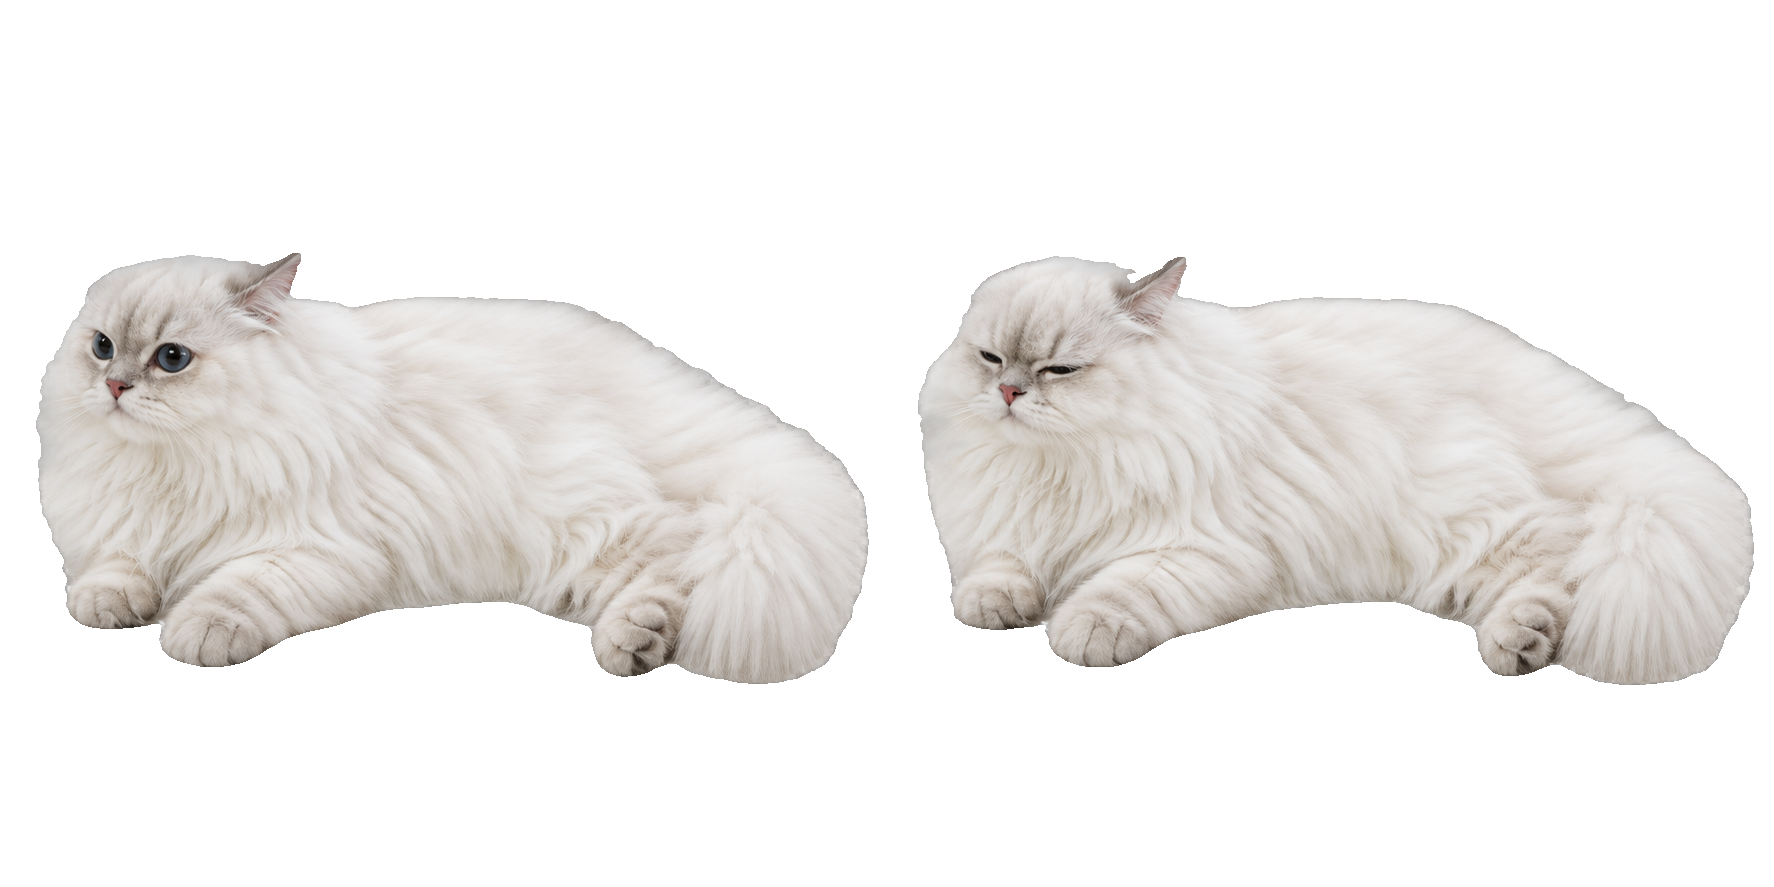
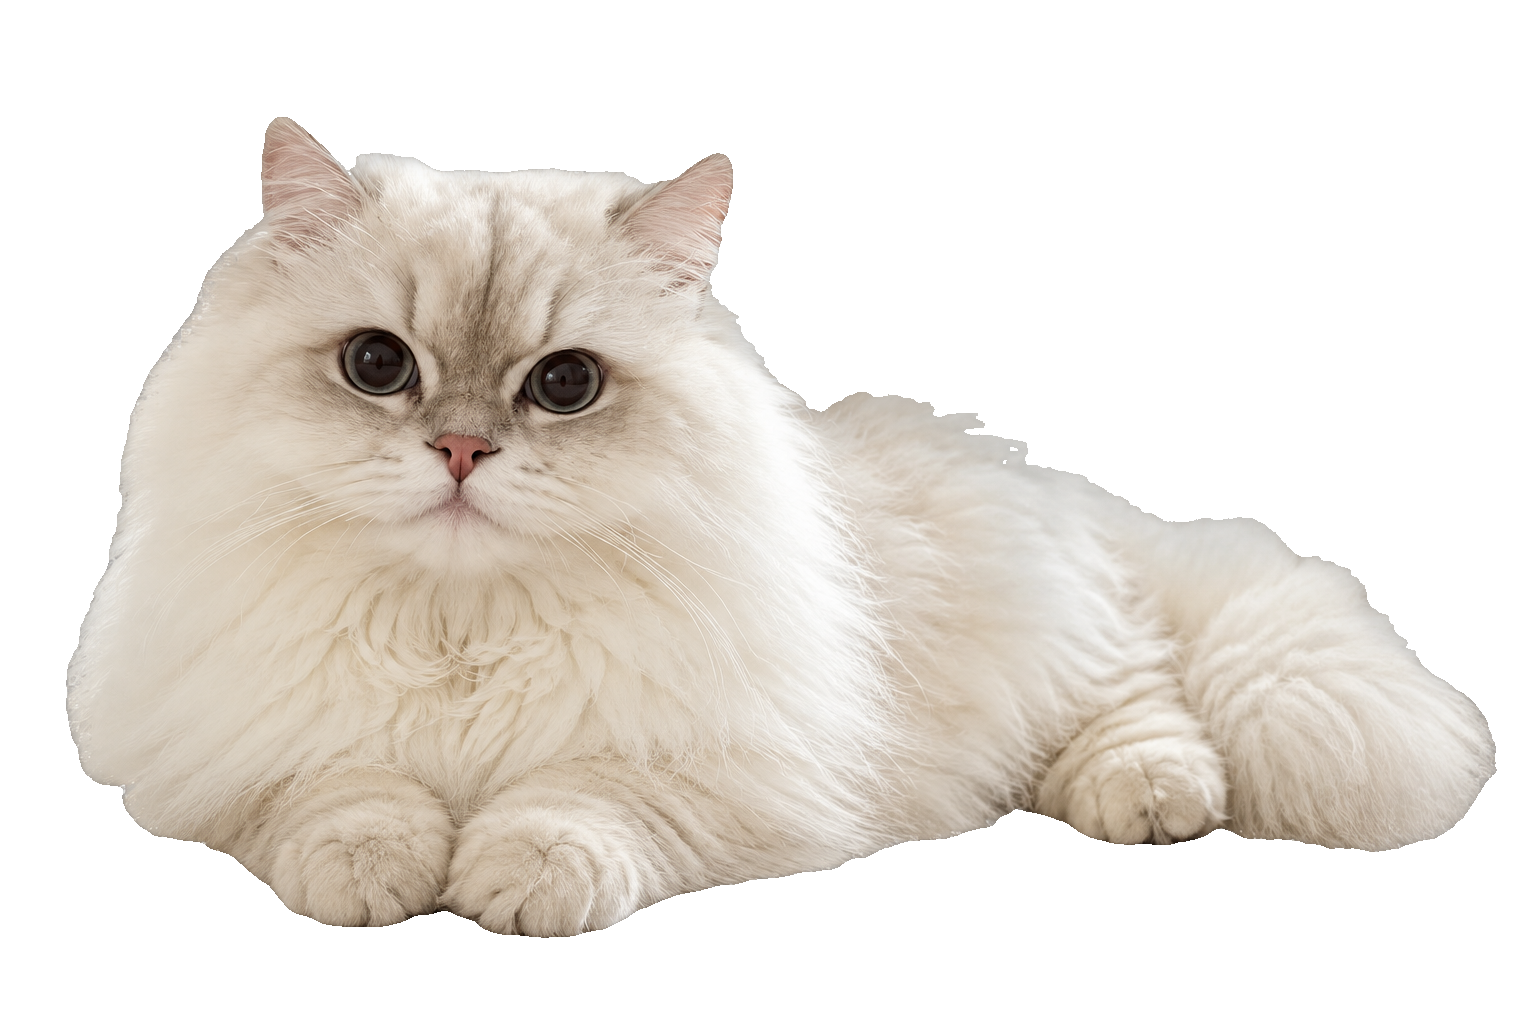
fix: add Mochi blink and walk sprite frames

diff --git a/native/macos/Mochi.swift b/native/macos/Mochi.swift
@@ -63,11 +63,13 @@ final class MochiPanel: NSPanel {
 final class PetHostView: NSView {
     var quiet = false
     private let rest = NSImage(contentsOfFile: Bundle.main.path(forResource: "mochi-rest", ofType: "png", inDirectory: "assets/cats")!)!
+    private let blink = NSImage(contentsOfFile: Bundle.main.path(forResource: "mochi-blink", ofType: "png", inDirectory: "assets/cats")!)!
     private let walk = NSImage(contentsOfFile: Bundle.main.path(forResource: "mochi-walk", ofType: "png", inDirectory: "assets/cats")!)!
     private var walking = false
     private var blinkUntil = Date.distantPast
     private var nextBlink = Date().addingTimeInterval(5)
     private var nextWalk = Date().addingTimeInterval(45)
+    private var walkFrame = 0
 
     override init(frame frameRect: NSRect) {
         super.init(frame: frameRect)
@@ -79,6 +81,7 @@ final class PetHostView: NSView {
         let now = Date()
         if !quiet && !walking && now >= nextWalk {
             walking = true
+            walkFrame = 0
             nextWalk = now.addingTimeInterval(TimeInterval(Int.random(in: 40...80)))
             DispatchQueue.main.asyncAfter(deadline: .now() + 1.4) { [weak self] in self?.walking = false }
         }
@@ -92,10 +95,12 @@ final class PetHostView: NSView {
     override func draw(_ dirtyRect: NSRect) {
         NSColor.clear.setFill(); dirtyRect.fill()
         if walking {
-            walk.draw(in: NSRect(x: 10, y: 20, width: 180, height: 94), from: NSRect(x: 70, y: 140, width: 1460, height: 760), operation: .sourceOver, fraction: 1)
+            walkFrame = (walkFrame + 1) % 4
+            let frameWidth = walk.size.width / 4
+            walk.draw(in: NSRect(x: 17, y: 4, width: 165, height: 131), from: NSRect(x: CGFloat(walkFrame) * frameWidth, y: 120, width: frameWidth, height: 430), operation: .sourceOver, fraction: 1)
         } else {
-            let sourceX: CGFloat = Date() < blinkUntil ? rest.size.width / 2 : 0
-            rest.draw(in: NSRect(x: 10, y: 10, width: 180, height: 114), from: NSRect(x: sourceX, y: 155, width: rest.size.width / 2, height: 560), operation: .sourceOver, fraction: 1)
+            let pose = Date() < blinkUntil ? blink : rest
+            pose.draw(in: NSRect(x: 10, y: 10, width: 180, height: 120), from: NSRect(x: 0, y: 0, width: pose.size.width, height: pose.size.height), operation: .sourceOver, fraction: 1)
         }
     }
 }

diff --git a/native/windows/Program.cs b/native/windows/Program.cs
@@ -18,8 +18,9 @@ internal static class Program
 internal sealed class MochiForm : Form
 {
     private const int WindowWidth = 200;
-    private const int WindowHeight = 135;
+    private const int WindowHeight = 155;
     private readonly Bitmap _rest;
+    private readonly Bitmap _blink;
     private readonly Bitmap _walk;
     private readonly Bitmap _surface = new(WindowWidth, WindowHeight, PixelFormat.Format32bppArgb);
     private readonly System.Windows.Forms.Timer _timer = new();
@@ -30,6 +31,8 @@ internal sealed class MochiForm : Form
     private bool _quiet;
     private bool _walking;
     private Point _walkTarget;
+    private int _walkFrame;
+    private DateTime _nextWalkFrame;
     private DateTime _nextWalk;
     private DateTime _nextBlink;
     private DateTime _blinkEnds;
@@ -46,6 +49,7 @@ internal sealed class MochiForm : Form
 
         var assets = Path.Combine(AppContext.BaseDirectory, "assets", "cats");
         _rest = new Bitmap(Path.Combine(assets, "mochi-rest.png"));
+        _blink = new Bitmap(Path.Combine(assets, "mochi-blink.png"));
         _walk = new Bitmap(Path.Combine(assets, "mochi-walk.png"));
         _nextWalk = DateTime.UtcNow.AddSeconds(40 + _random.Next(41));
         _nextBlink = DateTime.UtcNow.AddSeconds(4 + _random.Next(5));
@@ -93,17 +97,21 @@ internal sealed class MochiForm : Form
                 Math.Clamp(Left + _random.Next(-70, 71), area.Left, area.Right - Width),
                 Math.Clamp(Top + _random.Next(-45, 46), area.Top, area.Bottom - Height));
             _walking = true;
+            _walkFrame = 0;
+            _nextWalkFrame = now;
             _timer.Interval = 33;
             changed = true;
         }
         if (_walking)
         {
+            if (now >= _nextWalkFrame) { _walkFrame = (_walkFrame + 1) % 4; _nextWalkFrame = now.AddMilliseconds(110); }
             var next = new Point(MoveTowards(Left, _walkTarget.X, 3), MoveTowards(Top, _walkTarget.Y, 2));
             Location = next;
             changed = true;
             if (next == _walkTarget)
             {
                 _walking = false;
+                _walkFrame = 0;
                 _nextWalk = now.AddSeconds(40 + _random.Next(41));
                 _timer.Interval = 250;
             }
@@ -138,12 +146,13 @@ internal sealed class MochiForm : Form
             g.InterpolationMode = InterpolationMode.HighQualityBicubic;
             if (_walking)
             {
-                g.DrawImage(_walk, new Rectangle(10, 20, 180, 94), 70, 140, 1460, 760, GraphicsUnit.Pixel);
+                var frameWidth = _walk.Width / 4;
+                g.DrawImage(_walk, new Rectangle(17, 12, 165, 131), _walkFrame * frameWidth, 120, frameWidth, 430, GraphicsUnit.Pixel);
             }
             else
             {
-                var sourceX = _blinkEnds > DateTime.UtcNow ? _rest.Width / 2 : 0;
-                g.DrawImage(_rest, new Rectangle(10, 10, 180, 114), sourceX, 155, _rest.Width / 2, 560, GraphicsUnit.Pixel);
+                var pose = _blinkEnds > DateTime.UtcNow ? _blink : _rest;
+                g.DrawImage(pose, new Rectangle(10, 18, 180, 120), 0, 0, pose.Width, pose.Height, GraphicsUnit.Pixel);
             }
         }
         PresentLayered();
@@ -164,7 +173,7 @@ internal sealed class MochiForm : Form
     }
 
     protected override void OnMouseUp(MouseEventArgs e) { _dragging = false; base.OnMouseUp(e); }
-    protected override void OnFormClosed(FormClosedEventArgs e) { _timer.Dispose(); _tray.Dispose(); _rest.Dispose(); _walk.Dispose(); _surface.Dispose(); base.OnFormClosed(e); }
+    protected override void OnFormClosed(FormClosedEventArgs e) { _timer.Dispose(); _tray.Dispose(); _rest.Dispose(); _blink.Dispose(); _walk.Dispose(); _surface.Dispose(); base.OnFormClosed(e); }
 
     protected override void WndProc(ref Message m)
     {
